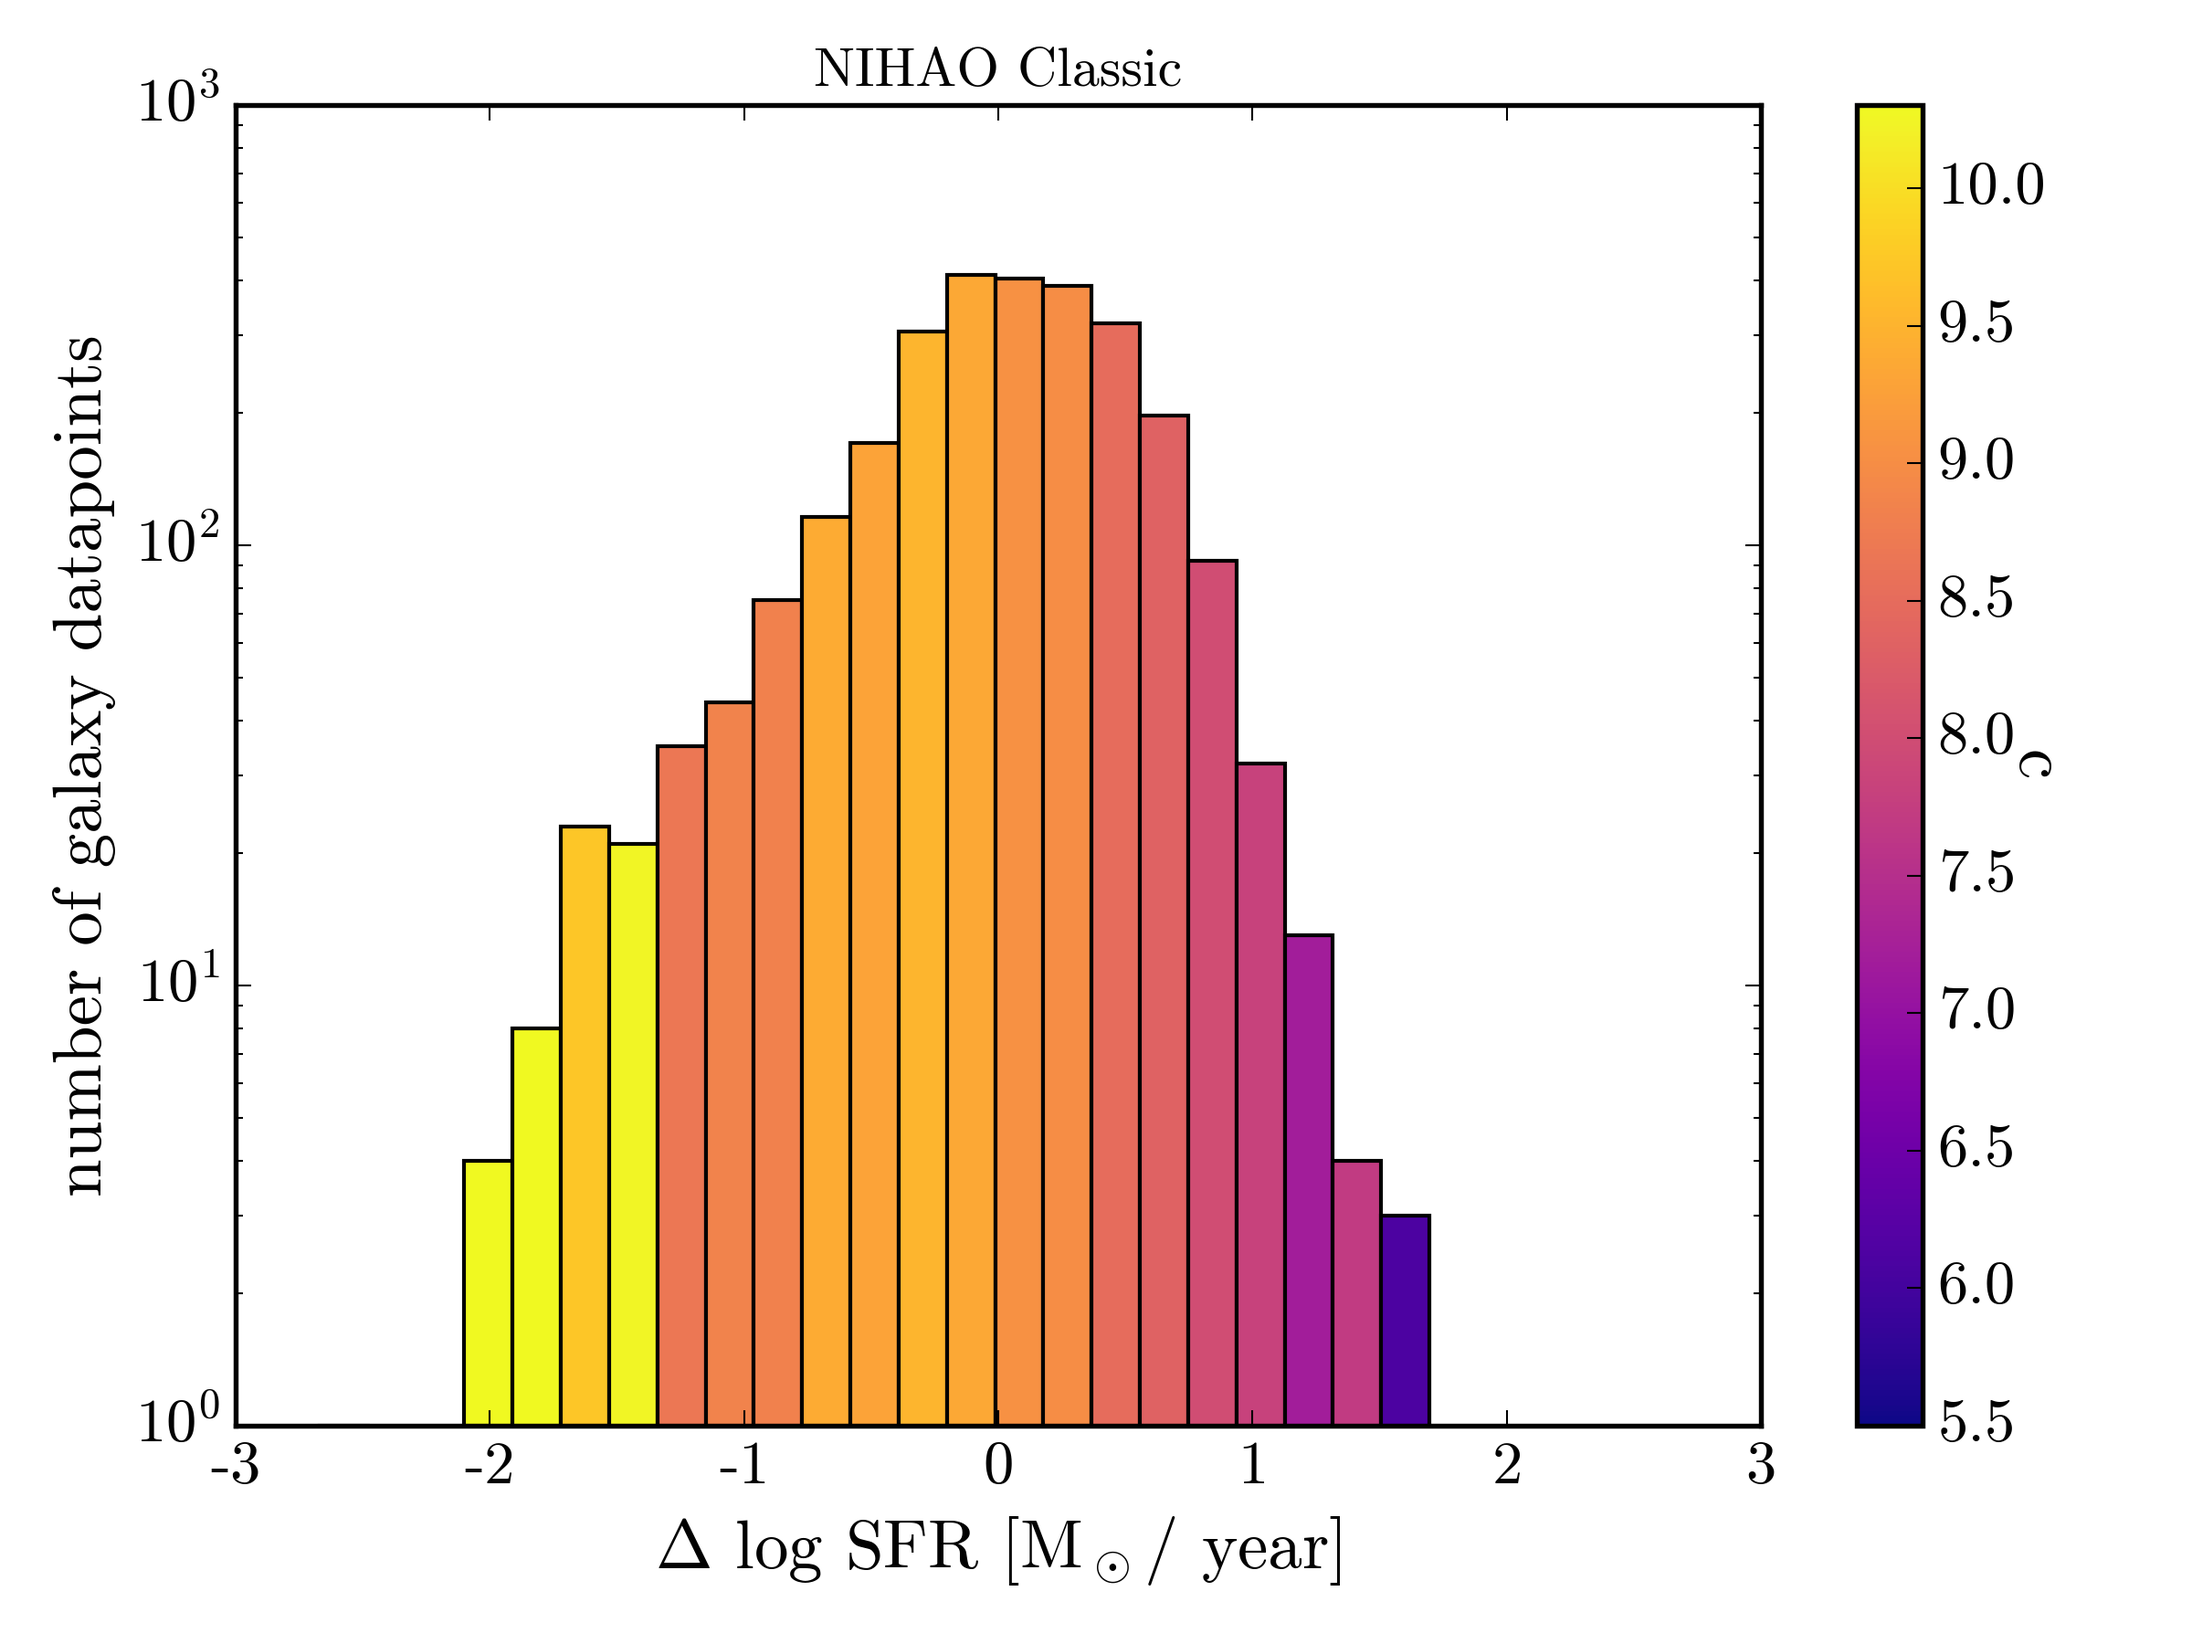
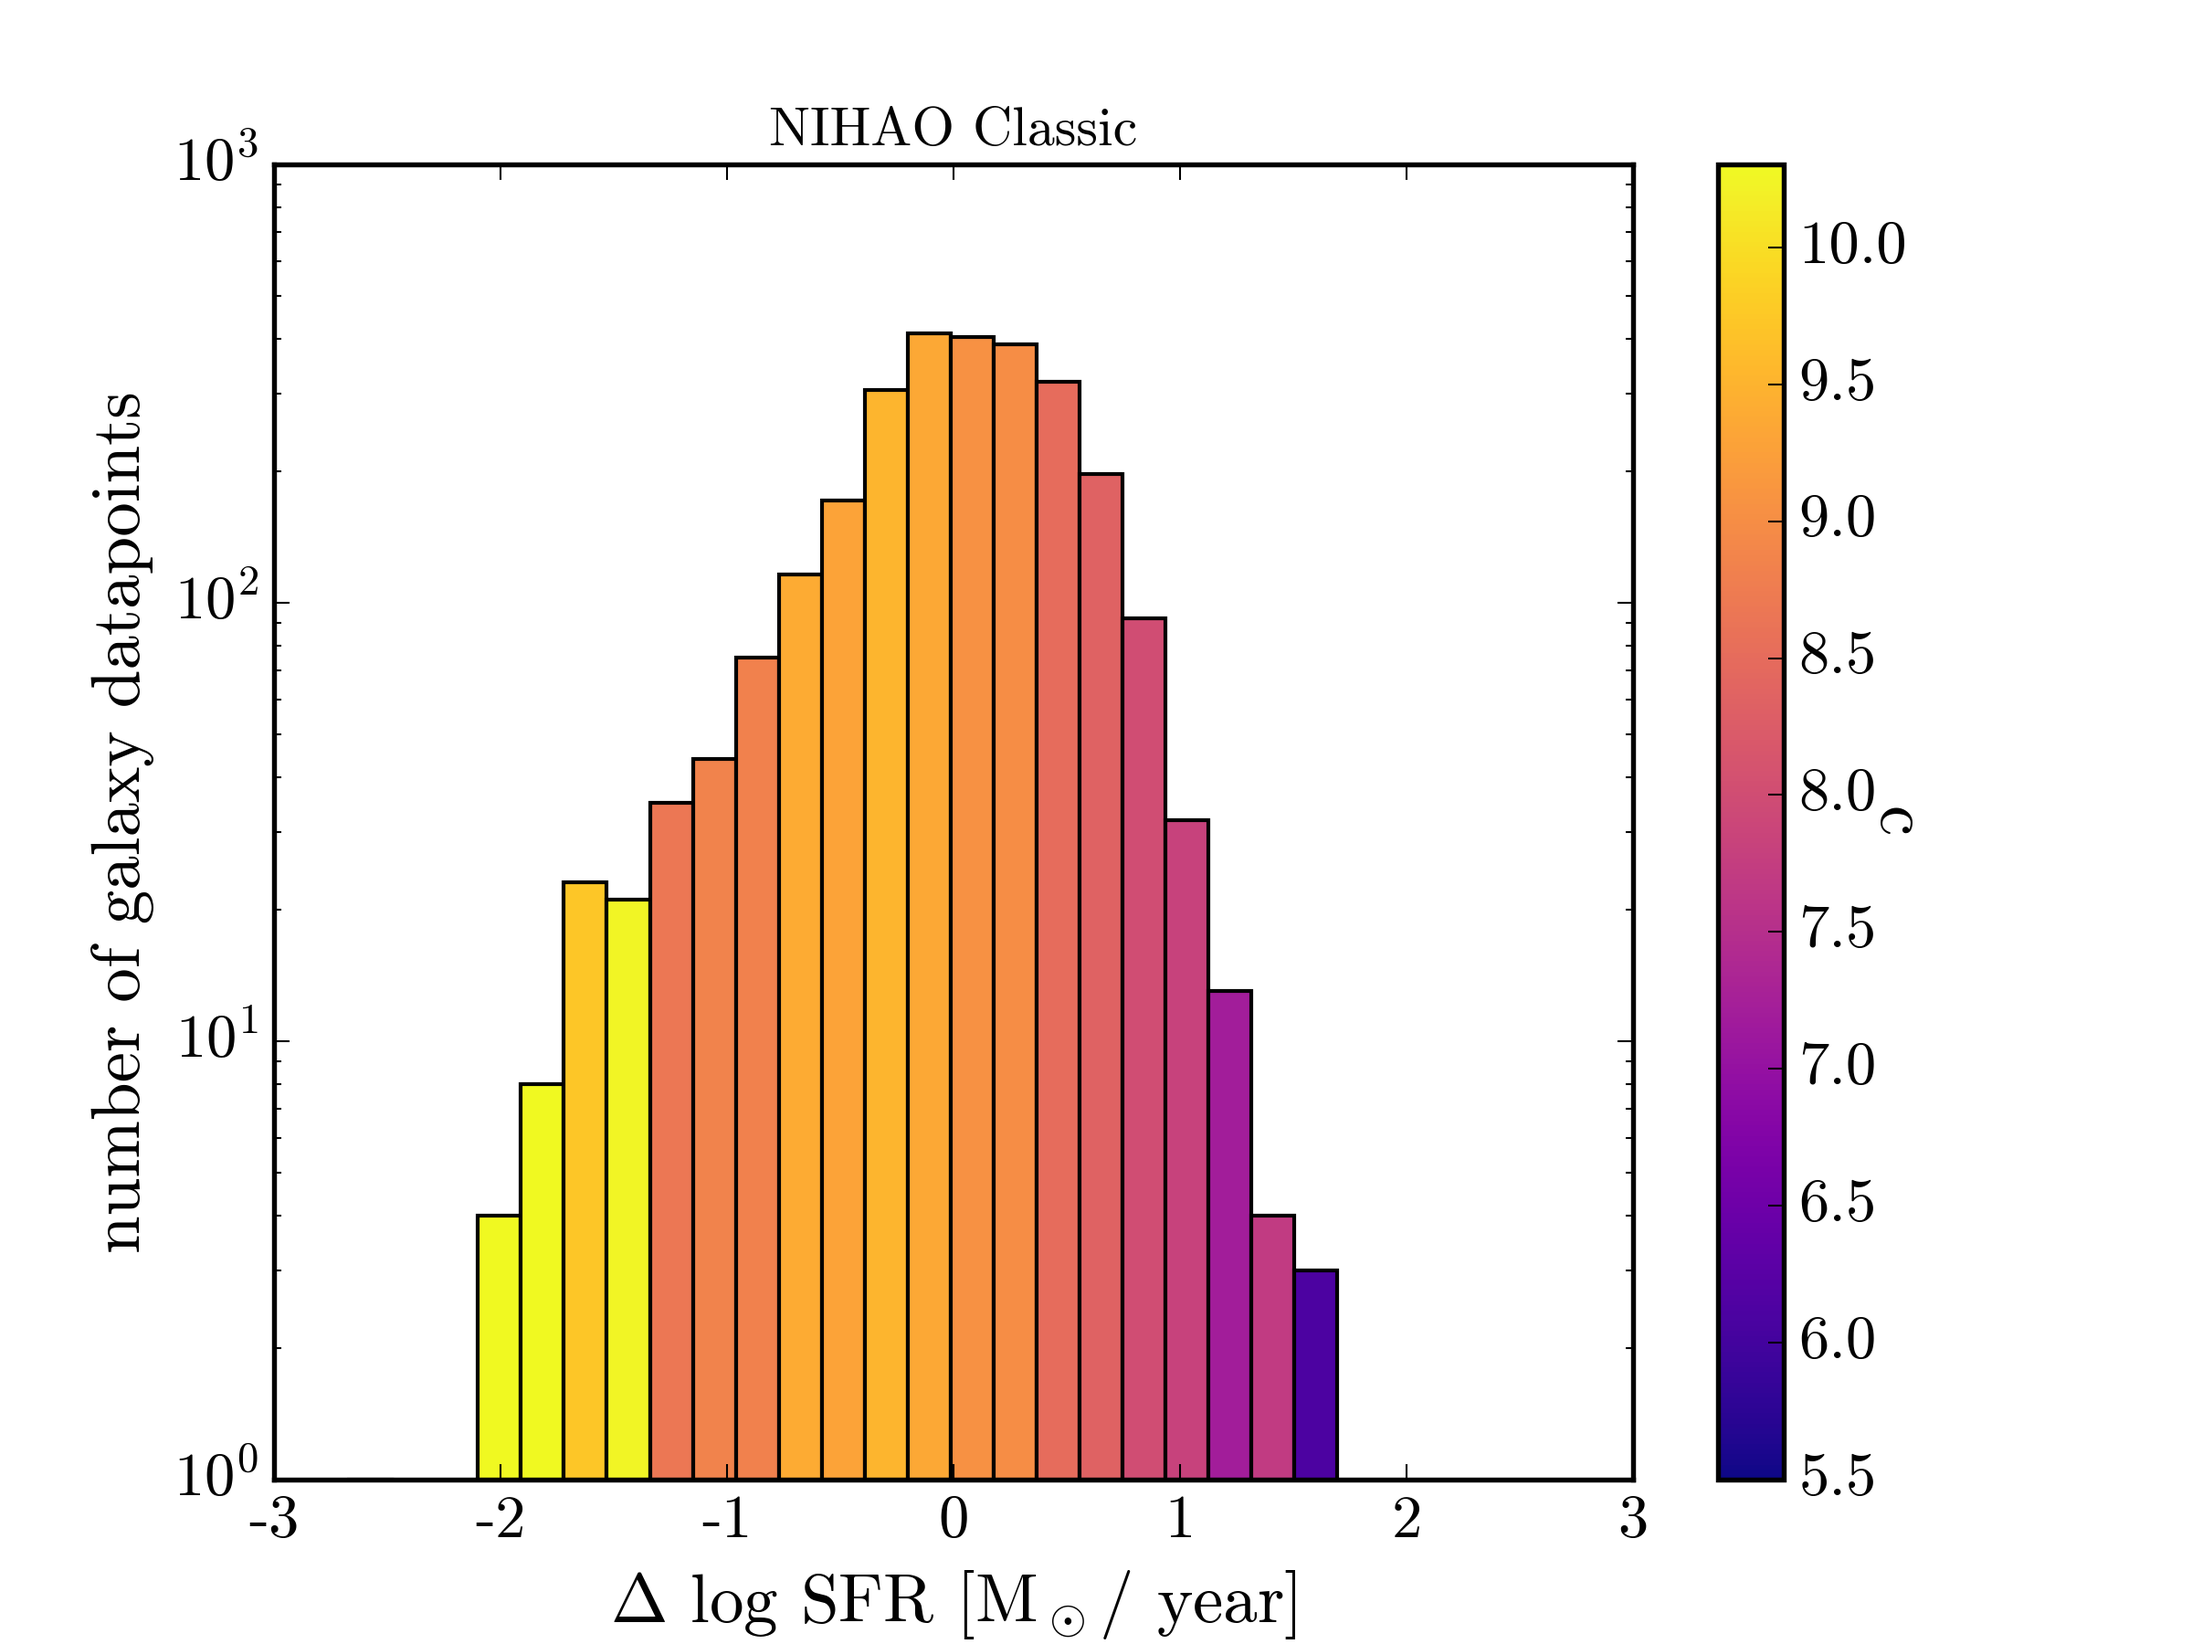
fix text

Changed region(s): [[0.0312, 0.0311, 0.9375, 0.9956], [0.7188, 0.6222, 0.75, 0.6533]]

diff --git a/5_histograms.py b/5_histograms.py
@@ -162,7 +162,7 @@ def plot_hist(deltas, concs, pointToRemove=[-1], minConc = 8, maxConc =11, binCo
     plt.xlim(-3, 3)
     plt.yscale('log')
     plt.title(plotTitle)
-    plt.tight_layout()
+    #plt.tight_layout()
     plt.savefig(str("plots/10_hist_" + plotTitle.replace(" ", "") + ".png"), dpi=300)
     plt.show()
 
@@ -302,21 +302,21 @@ nihaoWithEll = galDict.copy()
 nihaoWithEll.update(galDictEllBH)
 avgFitDict = make_fits(nihaoWithEll)
 delta_list, conc_list = make_delta_conc_lists(nihaoWithEll.keys(), nihaoWithEll, allConc, avgFitDict)
-plot_hist(delta_list, conc_list, pointToRemove = [0, 1, 2], minConc = 6, maxConc = 12, plotTitle="NIHAO with Ellipticals")
+plot_hist(delta_list, conc_list, pointToRemove = [0, 1, 2], minConc = 6, maxConc = 12, plotTitle="NIHAO + NIHAO with BH")
 
 #With AGN
 withAgn = galDictBH.copy()
 withAgn.update(galDictEllBH)
 avgFitDict = make_fits(withAgn)
 delta_list, conc_list = make_delta_conc_lists(withAgn.keys(), withAgn, allConc, avgFitDict)
-plot_hist(delta_list, conc_list, pointToRemove=[0,1,2,3,22], minConc=5, maxConc=9.6,  plotTitle="Galaxies with AGN")
+plot_hist(delta_list, conc_list, pointToRemove=[0,1,2,3,22], minConc=5, maxConc=9.6,  plotTitle="Galaxies with BH")
 
 #Without AGN
 withoutAgn = galDict.copy()
 withAgn.update(galDictEll)
 avgFitDict = make_fits(withoutAgn)
 delta_list, conc_list = make_delta_conc_lists(withoutAgn.keys(), withoutAgn, allConc, avgFitDict)
-plot_hist(delta_list, conc_list, minConc = 5, maxConc = 15, plotTitle="Galaxies without AGN")
+plot_hist(delta_list, conc_list, minConc = 5, maxConc = 15, plotTitle="Galaxies without BH")
 
 print(galsNotIncluded)
 
